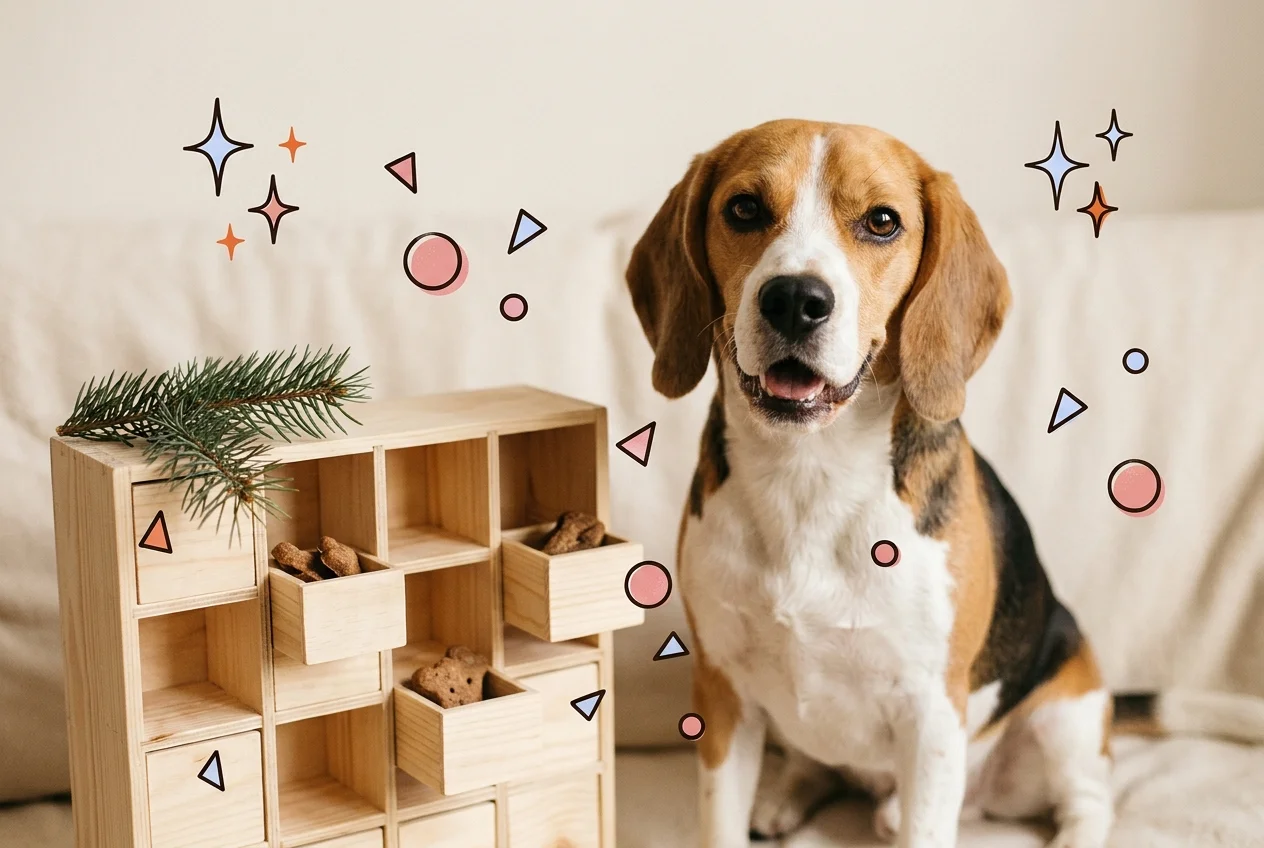
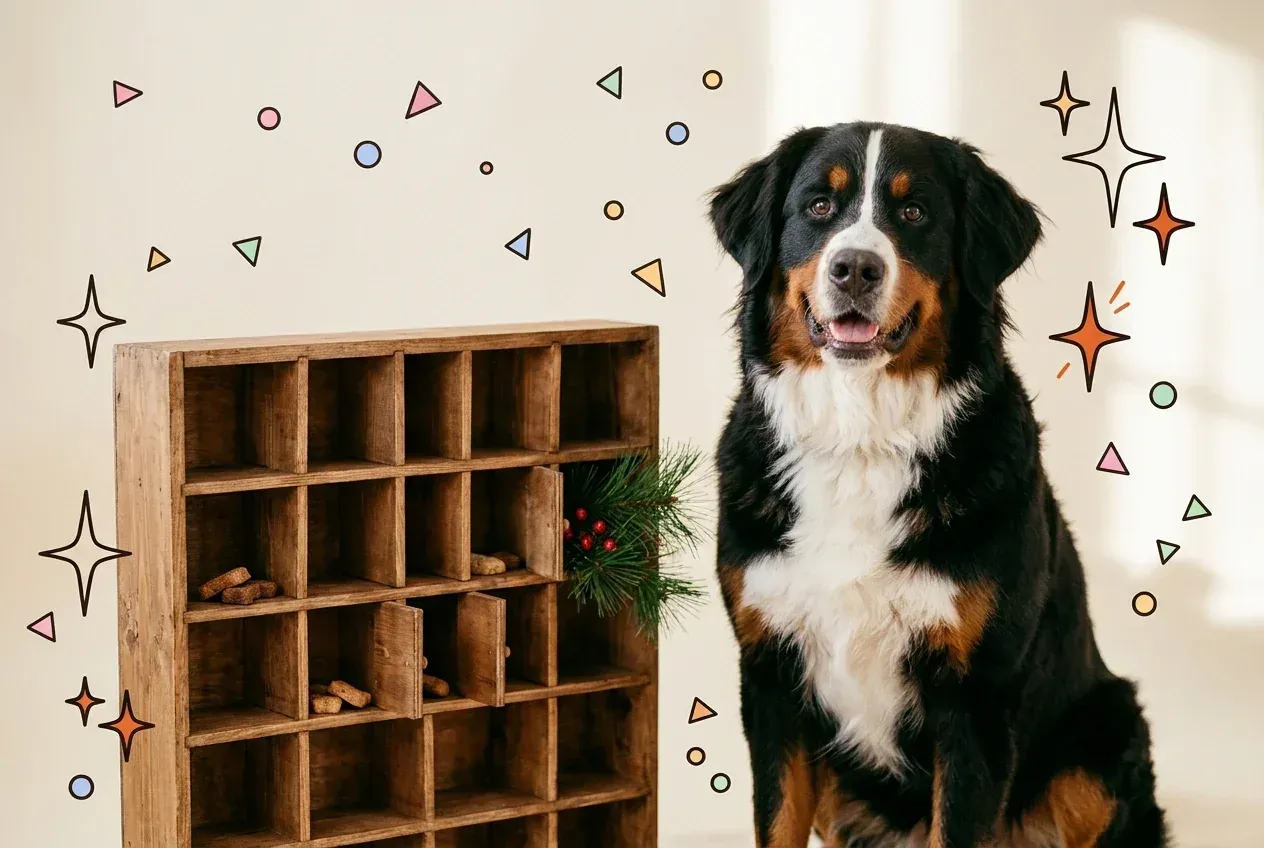
fix(images): vary dog breeds on article covers
Replace three beagle covers and require a named breed that differs from
the last eight covers in the article prompt.

diff --git a/data/extra-image-slots.ts b/data/extra-image-slots.ts
@@ -37,7 +37,7 @@ export const EXTRA_IMAGE_SLOTS: readonly ImageSlot[] = [
     imageReady: true,
     ext: 'webp',
     subject:
-      'A calm, attentive beagle sitting on a kitchen floor beside a wooden board holding small dog treats: a few strips of dried meat, some chewy green dental sticks and a handful of tiny soft training bites. The dog looks at the treats without eating. No packaging, no brand, no writing.',
+      'A calm, attentive Brittany spaniel sitting on a kitchen floor beside a wooden board holding small dog treats: a few strips of dried meat, some chewy green dental sticks and a handful of tiny soft training bites. The dog looks at the treats without eating. No packaging, no brand, no writing.',
     composition:
       'Full frame, subject edge to edge, dog and board filling the whole width, no empty band, no outline drawn around the dog or the food, at most 6 to 8 small confetti, no text, no numbers, no humans.',
     decorations: ['confetti'],
@@ -51,7 +51,7 @@ export const EXTRA_IMAGE_SLOTS: readonly ImageSlot[] = [
     imageReady: true,
     ext: 'webp',
     subject:
-      'A calm, attentive beagle sitting beside a large handmade wooden advent box with small open square compartments, a few of them showing small brown dog treats, a pine sprig on the side. The compartments carry no numbers and no writing. The dog is not eating.',
+      'A calm, attentive Bernese mountain dog sitting beside a large handmade wooden advent box with small open square compartments, a few of them showing small brown dog treats, a pine sprig on the side. The compartments carry no numbers and no writing. The dog is not eating.',
     composition:
       'Full frame, subject edge to edge, dog and box filling the whole width, no empty band, no outline drawn around the dog or the food, at most 6 to 8 small confetti, no text, no numbers, no humans.',
     decorations: ['confetti', 'sparkle'],
@@ -79,7 +79,7 @@ export const EXTRA_IMAGE_SLOTS: readonly ImageSlot[] = [
     imageReady: true,
     ext: 'webp',
     subject:
-      'A calm, attentive beagle lying on a warm cream kitchen floor next to a knocked-over small cup of coffee beans and a little heap of used coffee grounds, looking up. The dog is not eating.',
+      'A calm, attentive apricot miniature poodle lying on a warm cream kitchen floor next to a knocked-over small cup of coffee beans and a little heap of used coffee grounds, looking up. The dog is not eating.',
     composition:
       'Full frame, dog on the right half, coffee beans and grounds lower-left foreground, soft cream kitchen background. Only a few scattered confetti pieces (6 to 10 maximum). Do NOT trace any outline or contour line around the dog or the food.',
     decorations: ['confetti', 'sparkle'],

diff --git a/deploy/new-article-prompt.md b/deploy/new-article-prompt.md
@@ -44,7 +44,7 @@ Tâche biquotidienne : rédiger UN nouvel article pour Toutou Gourmet (www.touto
 - Marques : seules les marques affiliées sont citées avec un lien, et seulement si le sujet s'y prête : Dog Chef https://www.dogchef.com/fr/code/WZU7090 (−30 % sur la box d'essai, livraison gratuite), Elmut https://c3po.link/QWMW4k6mbU (−40 % sur la première commande), Franklin Pet Food https://c3po.link/Q3xbJhfapn (−30 % en abonnement), Ultra Premium Direct https://c3po.link/QqJYNnzYD8 (−20 % sur la première commande en abonnement), Dogfy Diet https://tidd.ly/4jT3Tqg (−50 % sur la box d'essai de 14 jours), Fidelis https://tidd.ly/48rl0Z3 (bocaux en rupture au 1er novembre 2026 : ne pas les mettre en avant). Maxi Zoo est partenaire : garder les liens tidd.ly vers ses fiches produits (Royal Canin https://tidd.ly/3PnVz4E, Eukanuba https://tidd.ly/4rPSibE et les autres liens tidd.ly déjà présents), sans les présenter comme une recommandation nutritionnelle. Petty Well n'est plus partenaire : ne jamais le citer.
 
 ## Image de couverture (UNE génération, coût payant : ne pas multiplier)
-1. Écrire `/tmp/new-article-image.json` : `[{"slot":"art-{slug}","subject":"…","composition":"…","decorations":["…"],"tone":"…","ratio":"3:2"}]`. Sujet : un chien calme et une scène liée à l'article, sans humain. Composition : plein cadre, sujet bord à bord, au plus 6 à 10 confettis, aucun contour tracé autour du chien ou de l'aliment. Ton selon la rubrique (Alimentation rose, Santé vert, Race ambre, Urgences rose + étoile orange, Comportement bleu, Avis bleu, Nutrition ambre). Race : portrait de la race exacte, un seul élément décoratif (petit chapeau de fête, ou empreinte de patte pour les races brachycéphales).
+1. Écrire `/tmp/new-article-image.json` : `[{"slot":"art-{slug}","subject":"…","composition":"…","decorations":["…"],"tone":"…","ratio":"3:2"}]`. Sujet : un chien calme et une scène liée à l'article, sans humain. Nommer une race précise dans le sujet, différente de celles des 8 premières entrées de `data/extra-image-slots.ts` (les 8 dernières couvertures). Puiser par exemple parmi : épagneul breton, bouvier bernois, caniche, whippet, samoyède, boxer, malinois, cavalier King Charles, braque, bichon, shih tzu, springer, shiba, teckel, berger australien, golden retriever, labrador, border collie, corgi, beagle. Composition : plein cadre, sujet bord à bord, au plus 6 à 10 confettis, aucun contour tracé autour du chien ou de l'aliment. Ton selon la rubrique (Alimentation rose, Santé vert, Race ambre, Urgences rose + étoile orange, Comportement bleu, Avis bleu, Nutrition ambre). Race : portrait de la race exacte, un seul élément décoratif (petit chapeau de fête, ou empreinte de patte pour les races brachycéphales).
 2. Lancer `node scripts/generate-images.mjs /tmp/new-article-image.json --out public/images/articles` (une seule variante par défaut), puis renommer `public/images/articles/art-{slug}-1.webp` en `art-{slug}.webp`.
 3. Regarder l'image (outil Read). Si elle a un défaut net (anatomie déformée, bande vide, texte), UNE seule nouvelle génération ; sinon garder. Si la génération échoue deux fois, publier sans image dédiée (la cover de la rubrique sert de repli) et le signaler.
 4. Déclarer le slot dans `data/extra-image-slots.ts` (en tête du tableau, `ext: 'webp'`, `imageReady: true`, même forme que les autres entrées) et ajouter `'{slug}': 'art-{slug}',` dans `ARTICLE_SLOT_BY_SLUG` (`components/blog/blog-categories.ts`).
